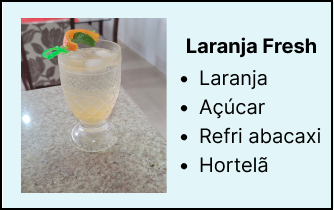
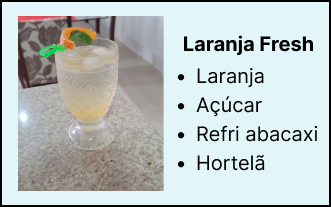
atualização 23/12

diff --git a/abacaxi.html b/abacaxi.html
@@ -5,8 +5,8 @@
     <meta http-equiv="X-UA-Compatible" content="IE=edge">
     <meta name="viewport" content="width=device-width, initial-scale=1.0">
     <title>Abacaxi</title>
-    <link rel="stylesheet" href="./css/fruta.css">
     <link rel="stylesheet" href="./css/estilo.css">
+    <link rel="stylesheet" href="./css/fruta.css">
 </head>
 <body>
     <header>
@@ -22,23 +22,23 @@
         <h1>MENU</h1>
         <section>
             <img src="./img/icon/abacaxi.png" alt="">
-            <a href="Abacaxi.html">Abacaxi</a>
+            <a href="abacaxi.html">Abacaxi</a>
         </section>
         <section>
             <img src="./img/icon/laranja.png" alt="">
-            <a href="Laranja.html">Laranja</a>
+            <a href="laranja.html">Laranja</a>
         </section>
         <section>
             <img src="./img/icon/limao.png" alt="">
-            <a href="Limão.html">Limão</a>
+            <a href="limao.html">Limão</a>
         </section>
         <section>
             <img src="./img/icon/manga.png" alt="">
-            <a href="Manga.html">Manga</a>
+            <a href="manga.html">Manga</a>
         </section>
         <section>
             <img src="./img/icon/uva.png" alt="">
-            <a href="Uva.html">Uva</a>
+            <a href="uva.html">Uva</a>
         </section>
         <section>
             <img src="./img/icon/zpedido.png" alt="">
@@ -47,10 +47,10 @@
     </nav>
     <main>
         <h1>ABACAXI</h1>
-        <picture>
-            <img src="./img" alt="">
+        <div class="img">
+            <img src="./img/abacaxi1.png" alt="">
             <img src="./img/abacaxi2.png" alt="">
-        </picture>
+        </div>
     </main>
 
     <script>

diff --git a/laranja.html b/laranja.html
@@ -22,23 +22,23 @@
         <h1>MENU</h1>
         <section>
             <img src="./img/icon/abacaxi.png" alt="">
-            <a href="Abacaxi.html">Abacaxi</a>
+            <a href="abacaxi.html">Abacaxi</a>
         </section>
         <section>
             <img src="./img/icon/laranja.png" alt="">
-            <a href="Laranja.html">Laranja</a>
+            <a href="laranja.html">Laranja</a>
         </section>
         <section>
             <img src="./img/icon/limao.png" alt="">
-            <a href="Limão.html">Limão</a>
+            <a href="limao.html">Limão</a>
         </section>
         <section>
             <img src="./img/icon/manga.png" alt="">
-            <a href="Manga.html">Manga</a>
+            <a href="manga.html">Manga</a>
         </section>
         <section>
             <img src="./img/icon/uva.png" alt="">
-            <a href="Uva.html">Uva</a>
+            <a href="uva.html">Uva</a>
         </section>
         <section>
             <img src="./img/icon/zpedido.png" alt="">
@@ -48,7 +48,7 @@
     <main>
         <h1>LARANJA</h1>
         <picture>
-            <img src="./img" alt="">
+            <img src="./img/laranja1.png" alt="">
             <img src="./img/laranja2.png" alt="">
         </picture>
     </main>

diff --git a/limao.html b/limao.html
@@ -22,23 +22,23 @@
         <h1>MENU</h1>
         <section>
             <img src="./img/icon/abacaxi.png" alt="">
-            <a href="Abacaxi.html">Abacaxi</a>
+            <a href="abacaxi.html">Abacaxi</a>
         </section>
         <section>
             <img src="./img/icon/laranja.png" alt="">
-            <a href="Laranja.html">Laranja</a>
+            <a href="laranja.html">Laranja</a>
         </section>
         <section>
             <img src="./img/icon/limao.png" alt="">
-            <a href="Limão.html">Limão</a>
+            <a href="limao.html">Limão</a>
         </section>
         <section>
             <img src="./img/icon/manga.png" alt="">
-            <a href="Manga.html">Manga</a>
+            <a href="manga.html">Manga</a>
         </section>
         <section>
             <img src="./img/icon/uva.png" alt="">
-            <a href="Uva.html">Uva</a>
+            <a href="uva.html">Uva</a>
         </section>
         <section>
             <img src="./img/icon/zpedido.png" alt="">
@@ -49,7 +49,7 @@
         <h1>LIMÃO</h1>
         <picture>
             <img src="./img/limao1.png" alt="">
-            <img src="./img/" alt="">
+            <img src="./img/limao2.png" alt="">
         </picture>
     </main>
 

diff --git a/Manga.html b/Manga.html
@@ -22,23 +22,23 @@
         <h1>MENU</h1>
         <section>
             <img src="./img/icon/abacaxi.png" alt="">
-            <a href="Abacaxi.html">Abacaxi</a>
+            <a href="abacaxi.html">Abacaxi</a>
         </section>
         <section>
             <img src="./img/icon/laranja.png" alt="">
-            <a href="Laranja.html">Laranja</a>
+            <a href="laranja.html">Laranja</a>
         </section>
         <section>
             <img src="./img/icon/limao.png" alt="">
-            <a href="Limão.html">Limão</a>
+            <a href="limao.html">Limão</a>
         </section>
         <section>
             <img src="./img/icon/manga.png" alt="">
-            <a href="Manga.html">Manga</a>
+            <a href="manga.html">Manga</a>
         </section>
         <section>
             <img src="./img/icon/uva.png" alt="">
-            <a href="Uva.html">Uva</a>
+            <a href="uva.html">Uva</a>
         </section>
         <section>
             <img src="./img/icon/zpedido.png" alt="">
@@ -49,7 +49,7 @@
         <h1>MANGA</h1>
         <picture>
             <img src="./img/manga1.png" alt="">
-            <img src="./img/" alt="">
+            <img src="./img/manga2.png" alt="">
         </picture>
     </main>
 

diff --git a/pedido.html b/pedido.html
@@ -23,23 +23,23 @@
         <h1>MENU</h1>
         <section>
             <img src="./img/icon/abacaxi.png" alt="">
-            <a href="Abacaxi.html">Abacaxi</a>
+            <a href="abacaxi.html">Abacaxi</a>
         </section>
         <section>
             <img src="./img/icon/laranja.png" alt="">
-            <a href="Laranja.html">Laranja</a>
+            <a href="laranja.html">Laranja</a>
         </section>
         <section>
             <img src="./img/icon/limao.png" alt="">
-            <a href="Limão.html">Limão</a>
+            <a href="limao.html">Limão</a>
         </section>
         <section>
             <img src="./img/icon/manga.png" alt="">
-            <a href="Manga.html">Manga</a>
+            <a href="manga.html">Manga</a>
         </section>
         <section>
             <img src="./img/icon/uva.png" alt="">
-            <a href="Uva.html">Uva</a>
+            <a href="uva.html">Uva</a>
         </section>
         <section>
             <img src="./img/icon/zpedido.png" alt="">

diff --git a/uva.html b/uva.html
@@ -22,23 +22,23 @@
         <h1>MENU</h1>
         <section>
             <img src="./img/icon/abacaxi.png" alt="">
-            <a href="Abacaxi.html">Abacaxi</a>
+            <a href="abacaxi.html">Abacaxi</a>
         </section>
         <section>
             <img src="./img/icon/laranja.png" alt="">
-            <a href="Laranja.html">Laranja</a>
+            <a href="laranja.html">Laranja</a>
         </section>
         <section>
             <img src="./img/icon/limao.png" alt="">
-            <a href="Limão.html">Limão</a>
+            <a href="limao.html">Limão</a>
         </section>
         <section>
             <img src="./img/icon/manga.png" alt="">
-            <a href="Manga.html">Manga</a>
+            <a href="manga.html">Manga</a>
         </section>
         <section>
             <img src="./img/icon/uva.png" alt="">
-            <a href="Uva.html">Uva</a>
+            <a href="uva.html">Uva</a>
         </section>
         <section>
             <img src="./img/icon/zpedido.png" alt="">

diff --git a/css/fruta.css b/css/fruta.css
@@ -7,7 +7,8 @@
 :root{
     --primary: #121212;
     --secondary: #3b3561;
-    --third: #C3E8EE;
+    --third: #595092;
+    --fourth #C3E8EE;
     --gray: #e5e5e5;
     --white: #FFFFFF;
     --black: #000000;
@@ -22,19 +23,21 @@
     margin-bottom: 0.5rem;
     margin-right: 2px;
     color: var(--white);
-    transition: all 0.2s;
+    transition: all 0.5s;
 }
 
 div > a:hover {
     text-decoration: underline;
+    font-weight: bold;
     color: var(--third);
 }
 
-img {
-    margin: 0.5rem 0;
-    background-color: var(--primary); 
+.img {
+    display: flex;
+    justify-content: center;
 }
 
-picture img {
-    border-color: var(--primary);
+main h1 {
+    color: var(--primary);
+    margin-bottom: 2.5rem;
 }

diff --git a/css/estilo.css b/css/estilo.css
@@ -8,6 +8,7 @@
     --primary: #121212;
     --secondary: #3b3561;
     --third: #595092;
+    --fourth #C3E8EE;
     --gray: #e5e5e5;
     --white: #FFFFFF;
     --black: #000000;
@@ -77,6 +78,10 @@ nav section:hover {
     background-color: var(--gray);
 }
 
+nav > section > img:hover {
+    background-color: var(--gray);
+}
+
 nav > section > a:hover {
     color: var(--primary);
     text-decoration: underline;
@@ -102,11 +107,6 @@ main h1 {
     font-size: 60px;
 }
 
-div img {
-    display: flex;
-    justify-content: center;
-    width: 95%;
-}
 footer {
     background-color: var(--primary);
     height: 2.5rem;

diff --git a/index.html b/index.html
@@ -26,7 +26,7 @@
         </section>
         <section>
             <img src="./img/icon/limao.png" alt="">
-            <a href="limão.html">Limão</a>
+            <a href="limao.html">Limão</a>
         </section>
         <section>
             <img src="./img/icon/manga.png" alt="">
